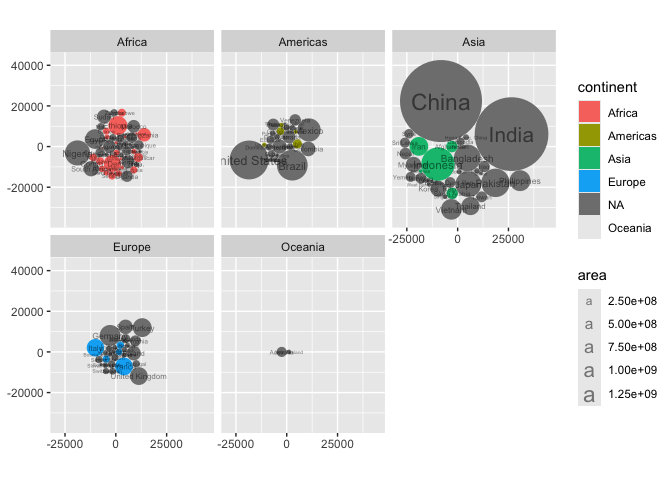
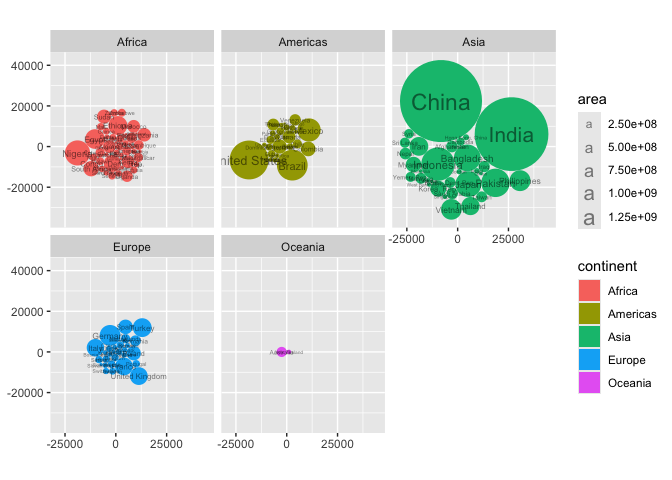
aes mapping grouped in order and id join with calculated circle parimeters working well

diff --git a/README.md b/README.md
@@ -136,19 +136,25 @@ compute_panel_circlepack_center <- function(data, scales, count = F){
   # data ->
   #   data1
   
-  
+  # get aes names as they appear in the data
+  data_mapped_aes_names <- names(data)[names(data) %in% c("id", "fill", "alpha", 
+                                             "colour", "group", "linewidth", 
+                                             "linetype")]
   
   if(is.null(data$area)){data$area <- 1}
   
+  data %>% 
+    group_by(across(data_mapped_aes_names)) ->
+  data
    # if(!("weight" %in% names(data))){data$weight <- 1}
   # order matters... Need to add text aesthetics
-  if("id" %in% names(data)){data <- group_by(data, id, .add = T)}
-  if("fill" %in% names(data)){data <- group_by(data, fill, .add = T)}
-  if("alpha" %in% names(data)){data <- group_by(data, alpha, .add = T)}
-  if("colour" %in% names(data)){data <- group_by(data, colour, .add = T)}
-  if("group" %in% names(data)){data <- group_by(data, group, .add = T)}
-  if("linetype" %in% names(data)){data <- group_by(data, linetype, .add = T)}
-  if("linewidth" %in% names(data)){data <- group_by(data, linewidth, .add = T)}
+  # if("id" %in% names(data)){data <- group_by(data, id, .add = T)}
+  # if("fill" %in% names(data)){data <- group_by(data, fill, .add = T)}
+  # if("alpha" %in% names(data)){data <- group_by(data, alpha, .add = T)}
+  # if("colour" %in% names(data)){data <- group_by(data, colour, .add = T)}
+  # if("group" %in% names(data)){data <- group_by(data, group, .add = T)}
+  # if("linetype" %in% names(data)){data <- group_by(data, linetype, .add = T)}
+  # if("linewidth" %in% names(data)){data <- group_by(data, linewidth, .add = T)}
   
   
   if(count){
@@ -178,6 +184,18 @@ filter(continent == "Americas") %>%
   select(area = pop, id = country) %>%
   compute_panel_circlepack_center() %>%
   head()
+#> Warning: There was 1 warning in `group_by()`.
+#> ℹ In argument: `across(data_mapped_aes_names)`.
+#> Caused by warning:
+#> ! Using an external vector in selections was deprecated in tidyselect 1.1.0.
+#> ℹ Please use `all_of()` or `any_of()` instead.
+#>   # Was:
+#>   data %>% select(data_mapped_aes_names)
+#> 
+#>   # Now:
+#>   data %>% select(all_of(data_mapped_aes_names))
+#> 
+#> See <https://tidyselect.r-lib.org/reference/faq-external-vector.html>.
 #>           x         y   radius      area        id     label
 #> 1 -3493.018     0.000 3493.018  38331121 Argentina Argentina
 #> 2  1639.564     0.000 1639.564   8445134   Bolivia   Bolivia
@@ -275,21 +293,27 @@ filter(year == 2002) %>%
 #' TBD
 compute_panel_circlepack <- function(data, scales, count = F){
 
+  data_mapped_aes_names <- names(data)[names(data) %in% c("id", "fill", "alpha", 
+                                             "colour", "group", "linewidth", 
+                                             "linetype")]
+  
   if(is.null(data$area)){data$area <- 1}
   
-    if(is.null(data$area)){data$area <- 1}
+  data %>% 
+    group_by(across(data_mapped_aes_names)) ->
+  data 
   
    # if(!("weight" %in% names(data))){data$weight <- 1}
   # order matters... Need to add text aesthetics
-  if("id" %in% names(data)){data <- group_by(data, id, .add = T)}
-
-  if("fill" %in% names(data)){data <- group_by(data, fill, .add = T)}
-  if("alpha" %in% names(data)){data <- group_by(data, alpha, .add = T)}
-  if("colour" %in% names(data)){data <- group_by(data, colour, .add = T)}
-  if("group" %in% names(data)){data <- group_by(data, group, .add = T)}
-  if("linetype" %in% names(data)){data <- group_by(data, linetype, .add = T)}
-  if("linewidth" %in% names(data)){data <- group_by(data, linewidth, .add = T)}
-  
+  # if("id" %in% names(data)){data <- group_by(data, id, .add = T)}
+  # 
+  # if("fill" %in% names(data)){data <- group_by(data, fill, .add = T)}
+  # if("alpha" %in% names(data)){data <- group_by(data, alpha, .add = T)}
+  # if("colour" %in% names(data)){data <- group_by(data, colour, .add = T)}
+  # if("group" %in% names(data)){data <- group_by(data, group, .add = T)}
+  # if("linetype" %in% names(data)){data <- group_by(data, linetype, .add = T)}
+  # if("linewidth" %in% names(data)){data <- group_by(data, linewidth, .add = T)}
+  # 
   if(count){
   data %>% 
     mutate(id = as.integer(as.factor(id))) %>% 
@@ -298,6 +322,7 @@ compute_panel_circlepack <- function(data, scales, count = F){
     data
   } else { data$id = 1:nrow(data)}
   
+  data$id = 1:nrow(data)
   # data %>%
   #   mutate(id = row_number()) ->
   #   data1
@@ -315,7 +340,7 @@ compute_panel_circlepack <- function(data, scales, count = F){
     packcircles::circleProgressiveLayout(
       sizetype = 'area') %>%
     packcircles::circleLayoutVertices(npoints = 50) %>%
-    left_join(data) #%>%
+    left_join(data, by = join_by(id)) 
 
 }
 ```
@@ -330,7 +355,6 @@ filter(continent == "Americas") %>%
   rename(id = country, area = pop) %>%
   compute_panel_circlepack() %>%
   head()
-#> Joining with `by = join_by(id)`
 #>            x         y id continent year lifeExp     area gdpPercap
 #> 1    0.00000    0.0000  1  Americas 2002   74.34 38331121  8797.641
 #> 2  -27.54349  437.7912  1  Americas 2002   74.34 38331121  8797.641
@@ -394,7 +418,6 @@ filter(year == 2002) %>%
   geom_circlepack(alpha = .5) + 
   coord_equal() + 
   labs(title = "gapminder 2002 countries")
-#> Joining with `by = join_by(id)`
 ```
 
 <img src="man/figures/README-unnamed-chunk-6-1.png" width="100%" />
@@ -404,7 +427,6 @@ filter(year == 2002) %>%
 last_plot() +
   aes(fill = continent) + 
   labs(title = "from 5 continents")
-#> Joining with `by = join_by(id)`
 ```
 
 <img src="man/figures/README-unnamed-chunk-6-2.png" width="100%" />
@@ -415,7 +437,6 @@ last_plot() +
   aes(area = pop) + 
   geom_circlepack_text() + 
   labs(title = "with very different populations")
-#> Joining with `by = join_by(id)`
 ```
 
 <img src="man/figures/README-unnamed-chunk-6-3.png" width="100%" />
@@ -425,11 +446,6 @@ last_plot() +
 last_plot() +
   facet_wrap(facets = vars(continent)) + 
   labs(title = "faceting")
-#> Joining with `by = join_by(id)`
-#> Joining with `by = join_by(id)`
-#> Joining with `by = join_by(id)`
-#> Joining with `by = join_by(id)`
-#> Joining with `by = join_by(id)`
 ```
 
 <img src="man/figures/README-unnamed-chunk-6-4.png" width="100%" />
@@ -440,11 +456,6 @@ last_plot() +
   scale_size_continuous(range = c(0, 4)) + 
   theme(legend.position = "none") + 
   labs(title = "remove legends")
-#> Joining with `by = join_by(id)`
-#> Joining with `by = join_by(id)`
-#> Joining with `by = join_by(id)`
-#> Joining with `by = join_by(id)`
-#> Joining with `by = join_by(id)`
 ```
 
 <img src="man/figures/README-unnamed-chunk-6-5.png" width="100%" />
@@ -454,11 +465,6 @@ last_plot() +
 last_plot() + 
   aes(area = gdpPercap*pop) + 
   labs(title = "and very different GDPs")
-#> Joining with `by = join_by(id)`
-#> Joining with `by = join_by(id)`
-#> Joining with `by = join_by(id)`
-#> Joining with `by = join_by(id)`
-#> Joining with `by = join_by(id)`
 ```
 
 <img src="man/figures/README-unnamed-chunk-6-6.png" width="100%" />
@@ -468,11 +474,6 @@ last_plot() +
 last_plot() + 
   aes(area = gdpPercap) + 
   labs(title = "and per capita GDPs")
-#> Joining with `by = join_by(id)`
-#> Joining with `by = join_by(id)`
-#> Joining with `by = join_by(id)`
-#> Joining with `by = join_by(id)`
-#> Joining with `by = join_by(id)`
 ```
 
 <img src="man/figures/README-unnamed-chunk-6-7.png" width="100%" />
@@ -490,7 +491,6 @@ filter(year == 2002) %>%
   geom_circlepack_text(aes(label = after_stat(
     paste(id, "\n",
     round(area/1000000, 1), "mil."))), lineheight = .8)
-#> Joining with `by = join_by(id)`
 ```
 
 <img src="man/figures/README-unnamed-chunk-6-8.png" width="100%" />
@@ -506,7 +506,6 @@ filter(year == 2002) %>%
   geom_circlepack_text(alpha = .5, count = T) + 
   coord_equal() +
   aes(fill = continent)
-#> Joining with `by = join_by(id)`
 ```
 
 <img src="man/figures/README-unnamed-chunk-6-9.png" width="100%" />
@@ -515,7 +514,6 @@ filter(year == 2002) %>%
 
 last_plot() + 
   aes(id = country)
-#> Joining with `by = join_by(id)`
 ```
 
 <img src="man/figures/README-unnamed-chunk-6-10.png" width="100%" />
@@ -524,7 +522,6 @@ last_plot() +
 
 last_plot() + 
   aes(area = pop)
-#> Joining with `by = join_by(id)`
 ```
 
 <img src="man/figures/README-unnamed-chunk-6-11.png" width="100%" />
@@ -534,11 +531,6 @@ last_plot() +
 
 last_plot() + 
   facet_wrap(~continent)
-#> Joining with `by = join_by(id)`
-#> Joining with `by = join_by(id)`
-#> Joining with `by = join_by(id)`
-#> Joining with `by = join_by(id)`
-#> Joining with `by = join_by(id)`
 ```
 
 <img src="man/figures/README-unnamed-chunk-6-12.png" width="100%" />
@@ -547,11 +539,6 @@ last_plot() +
 
 
 layer_data(i = 2)
-#> Joining with `by = join_by(id)`
-#> Joining with `by = join_by(id)`
-#> Joining with `by = join_by(id)`
-#> Joining with `by = join_by(id)`
-#> Joining with `by = join_by(id)`
 #>        fill     size                    group PANEL       area
 #> 1   #F8766D 1.779513                  Algeria     1   31287142
 #> 2   #F8766D 1.457016                   Angola     1   10866106
@@ -693,8 +680,8 @@ layer_data(i = 2)
 #> 138 #00B0F6 1.374742              Switzerland     4    7361757
 #> 139 #00B0F6 2.145017                   Turkey     4   67308928
 #> 140 #00B0F6 2.080105           United Kingdom     4   59912431
-#> 141  grey50 1.615124                Australia     5   19546792
-#> 142  grey50 1.270163              New Zealand     5    3908037
+#> 141 #E76BF3 1.615124                Australia     5   19546792
+#> 142 #E76BF3 1.270163              New Zealand     5    3908037
 #>                           id           x            y     radius
 #> 1                    Algeria  -3155.7894      0.00000  3155.7894
 #> 2                     Angola   1859.7820      0.00000  1859.7820
